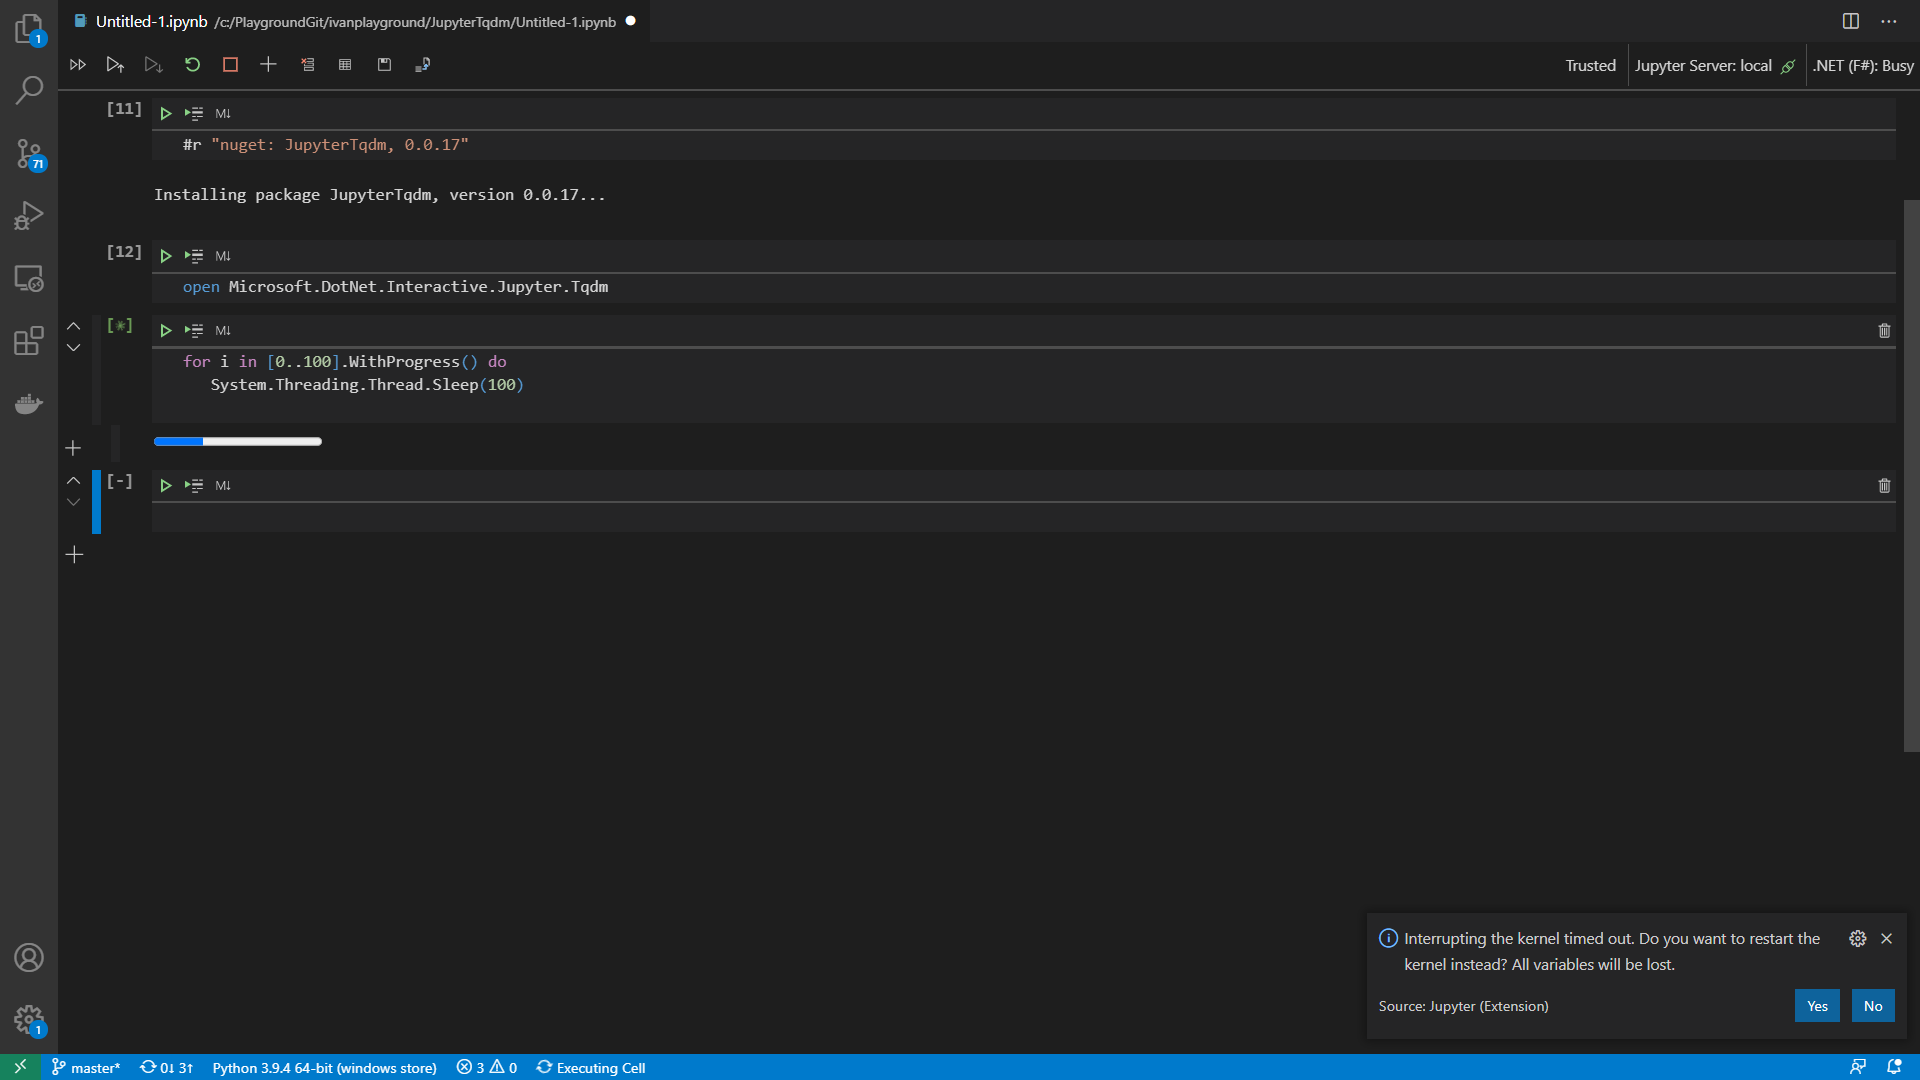
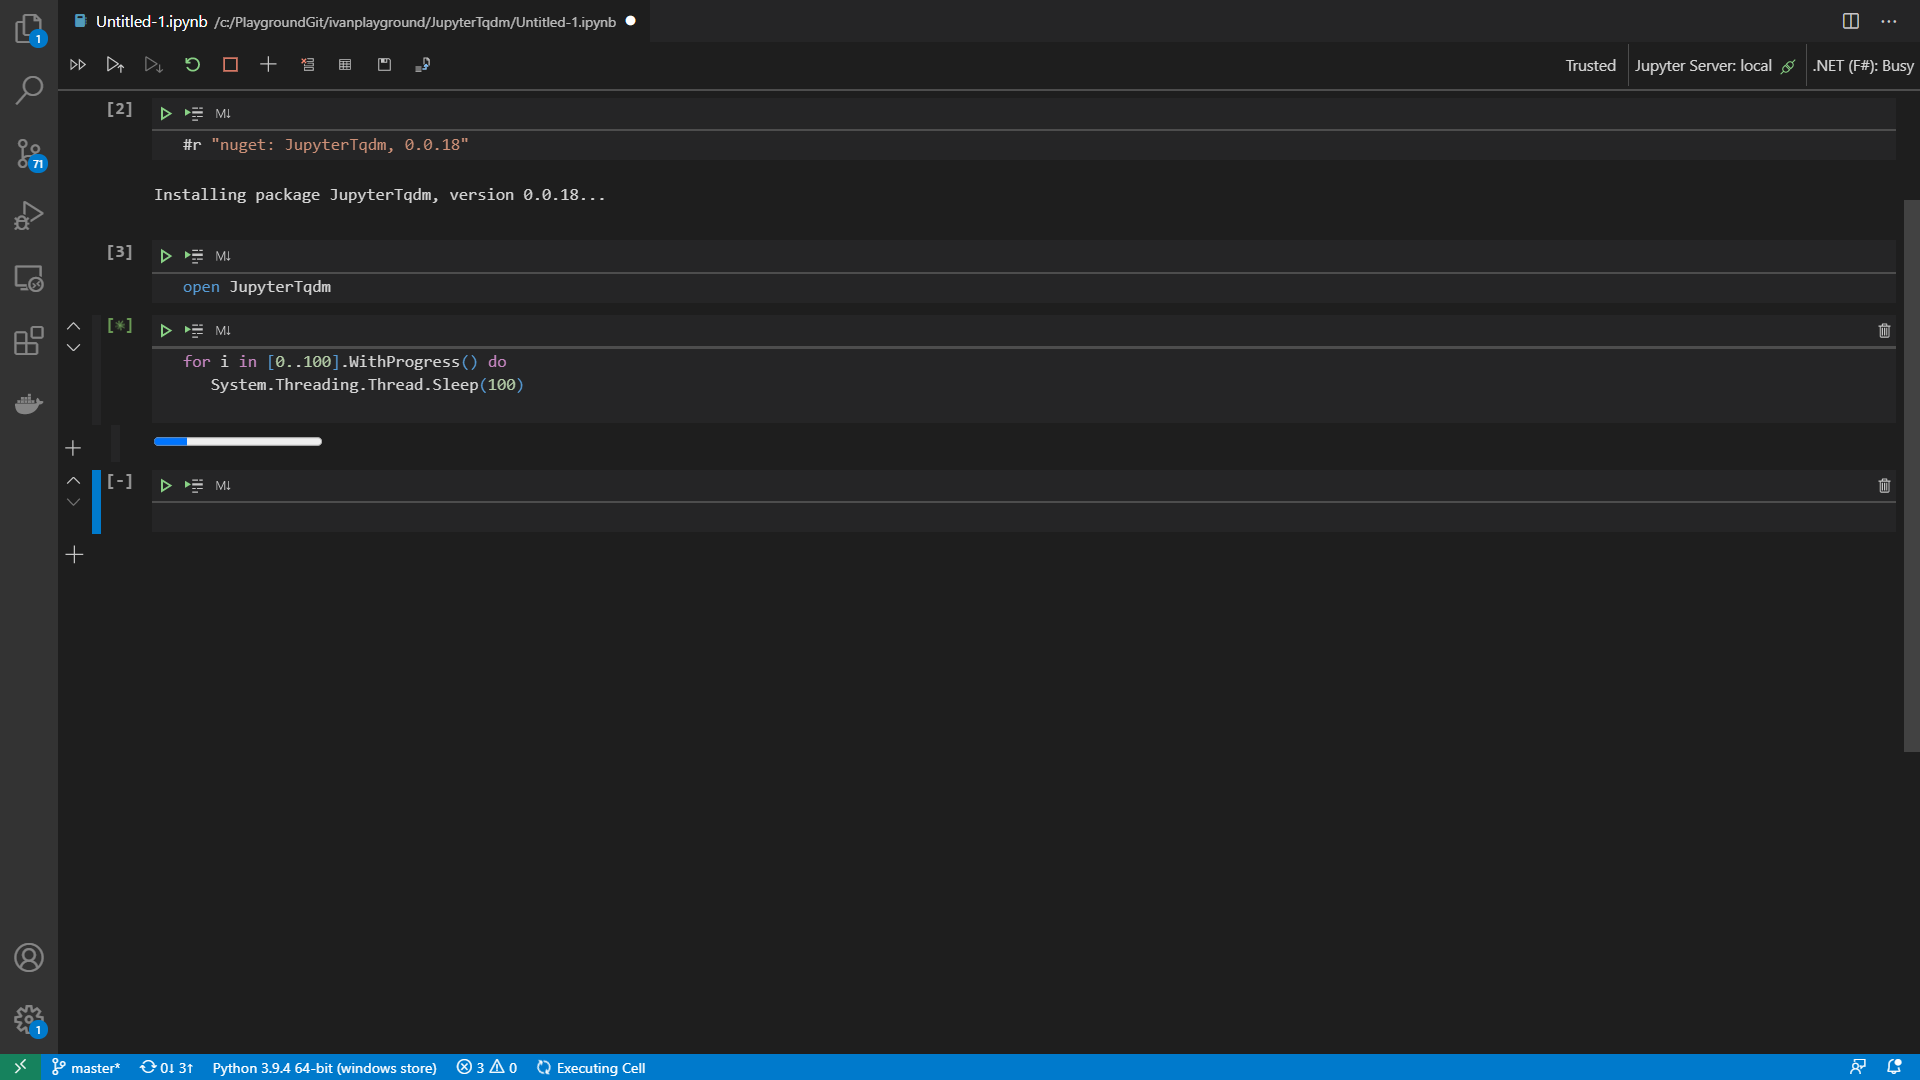
Project renamed to JupyterTqdm

Changed region(s): [[0.7188, 0.8556, 0.9688, 0.9472], [0.125, 0.2444, 0.3125, 0.275], [0.9375, 0.9167, 1.0, 0.9472]]

diff --git a/src/JupyterTqdm/Tqdm.cs b/src/JupyterTqdm/Tqdm.cs
@@ -1,19 +1,16 @@
 using System;
 using System.Collections;
 using System.Collections.Generic;
-using System.Linq;
-using System.Net;
 using System.Reactive.Concurrency;
 using System.Reactive.Linq;
 using System.Runtime.CompilerServices;
-using System.Text;
 using System.Threading;
 using System.Threading.Tasks;
-using Microsoft.DotNet.Interactive.Formatting;
-using Microsoft.DotNet.Interactive.Jupyter.Tqdm.Internal;
+using JupyterTqdm.Internal;
+using Microsoft.DotNet.Interactive;
 using Microsoft.DotNet.Interactive.Formatting;
 
-namespace Microsoft.DotNet.Interactive.Jupyter.Tqdm
+namespace JupyterTqdm
 {
     public static class Tqdm
     {

diff --git a/src/JupyterTqdm/Internal/IProgress.cs b/src/JupyterTqdm/Internal/IProgress.cs
@@ -1,6 +1,6 @@
 using System;
 
-namespace Microsoft.DotNet.Interactive.Jupyter.Tqdm.Internal
+namespace JupyterTqdm.Internal
 {
     public interface IProgress
     {
